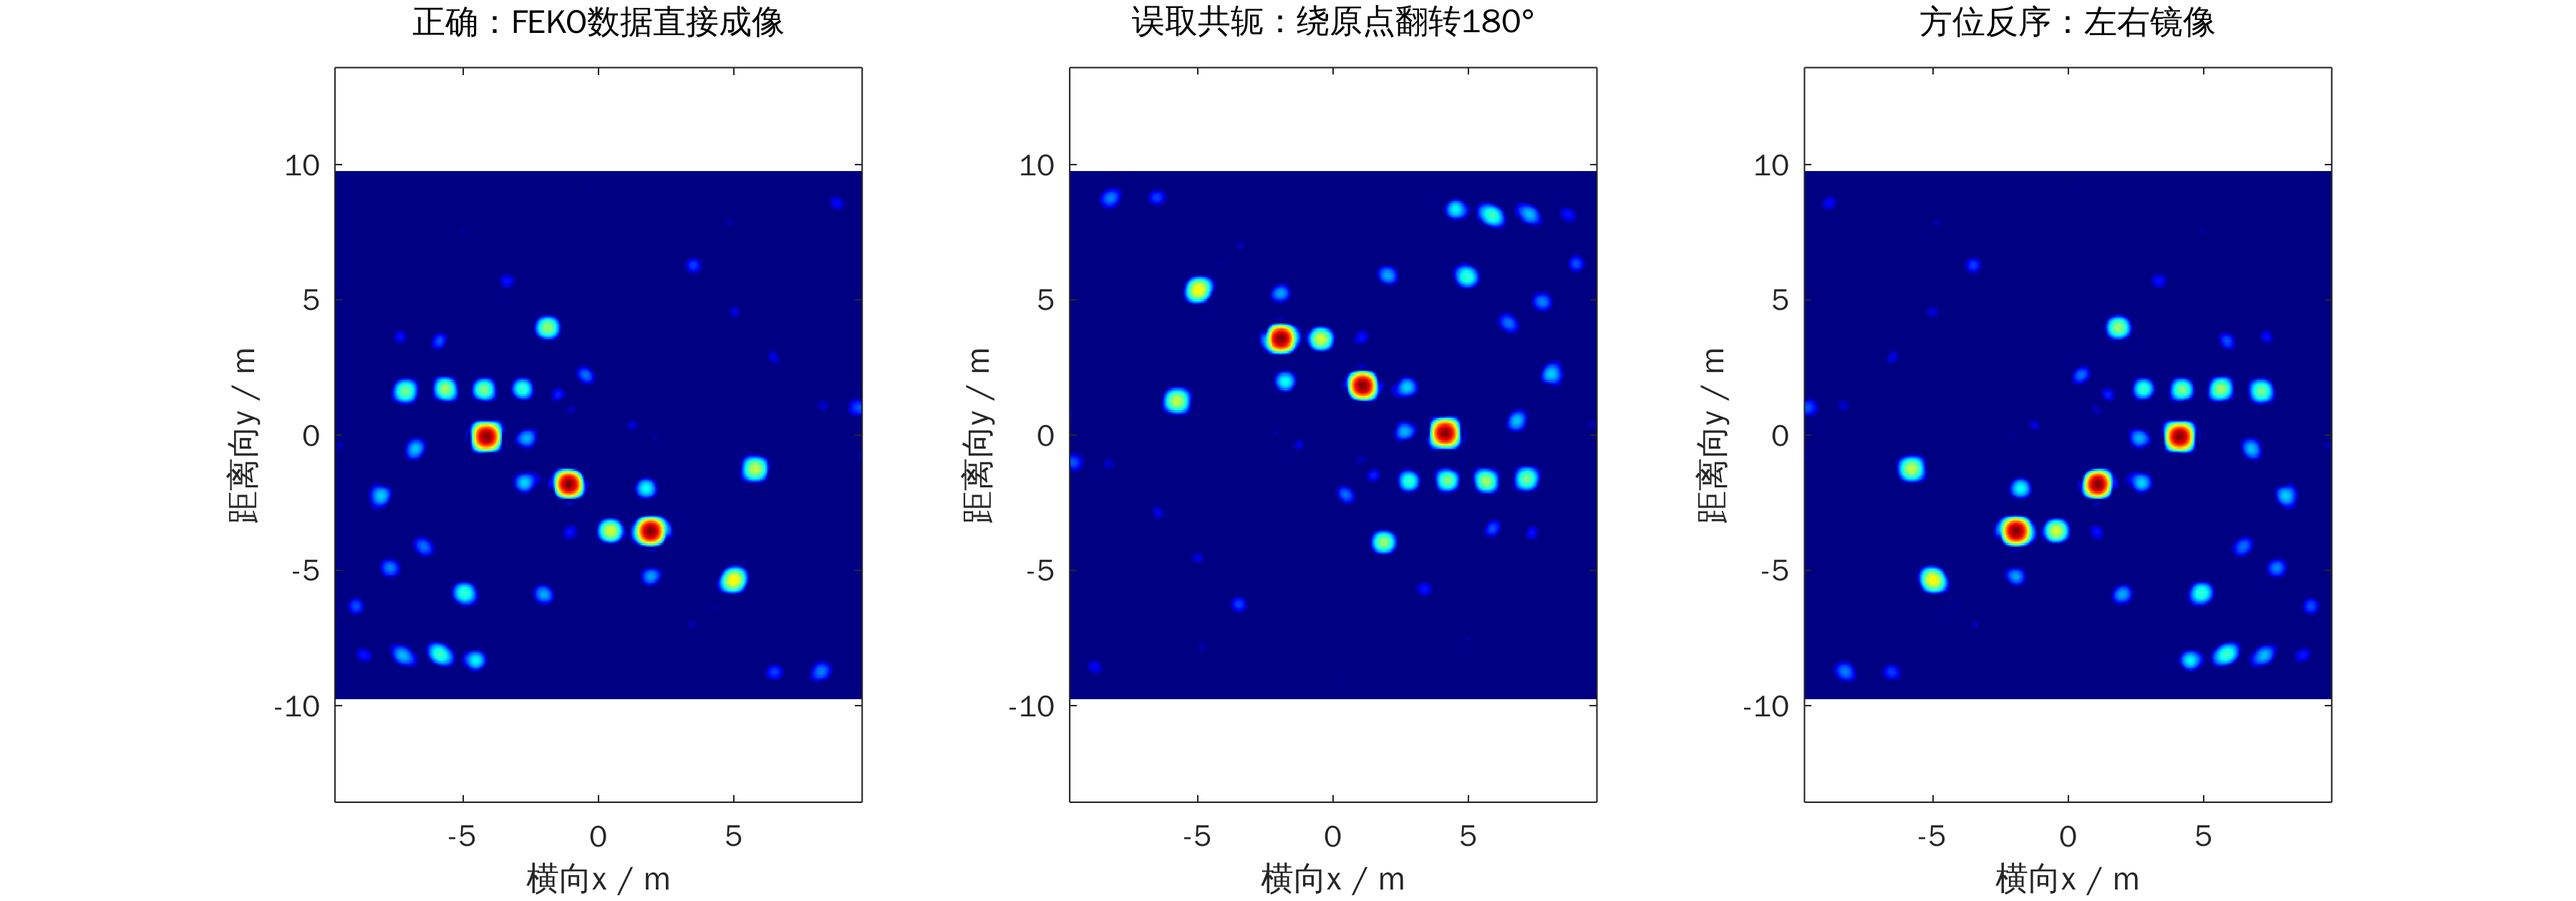
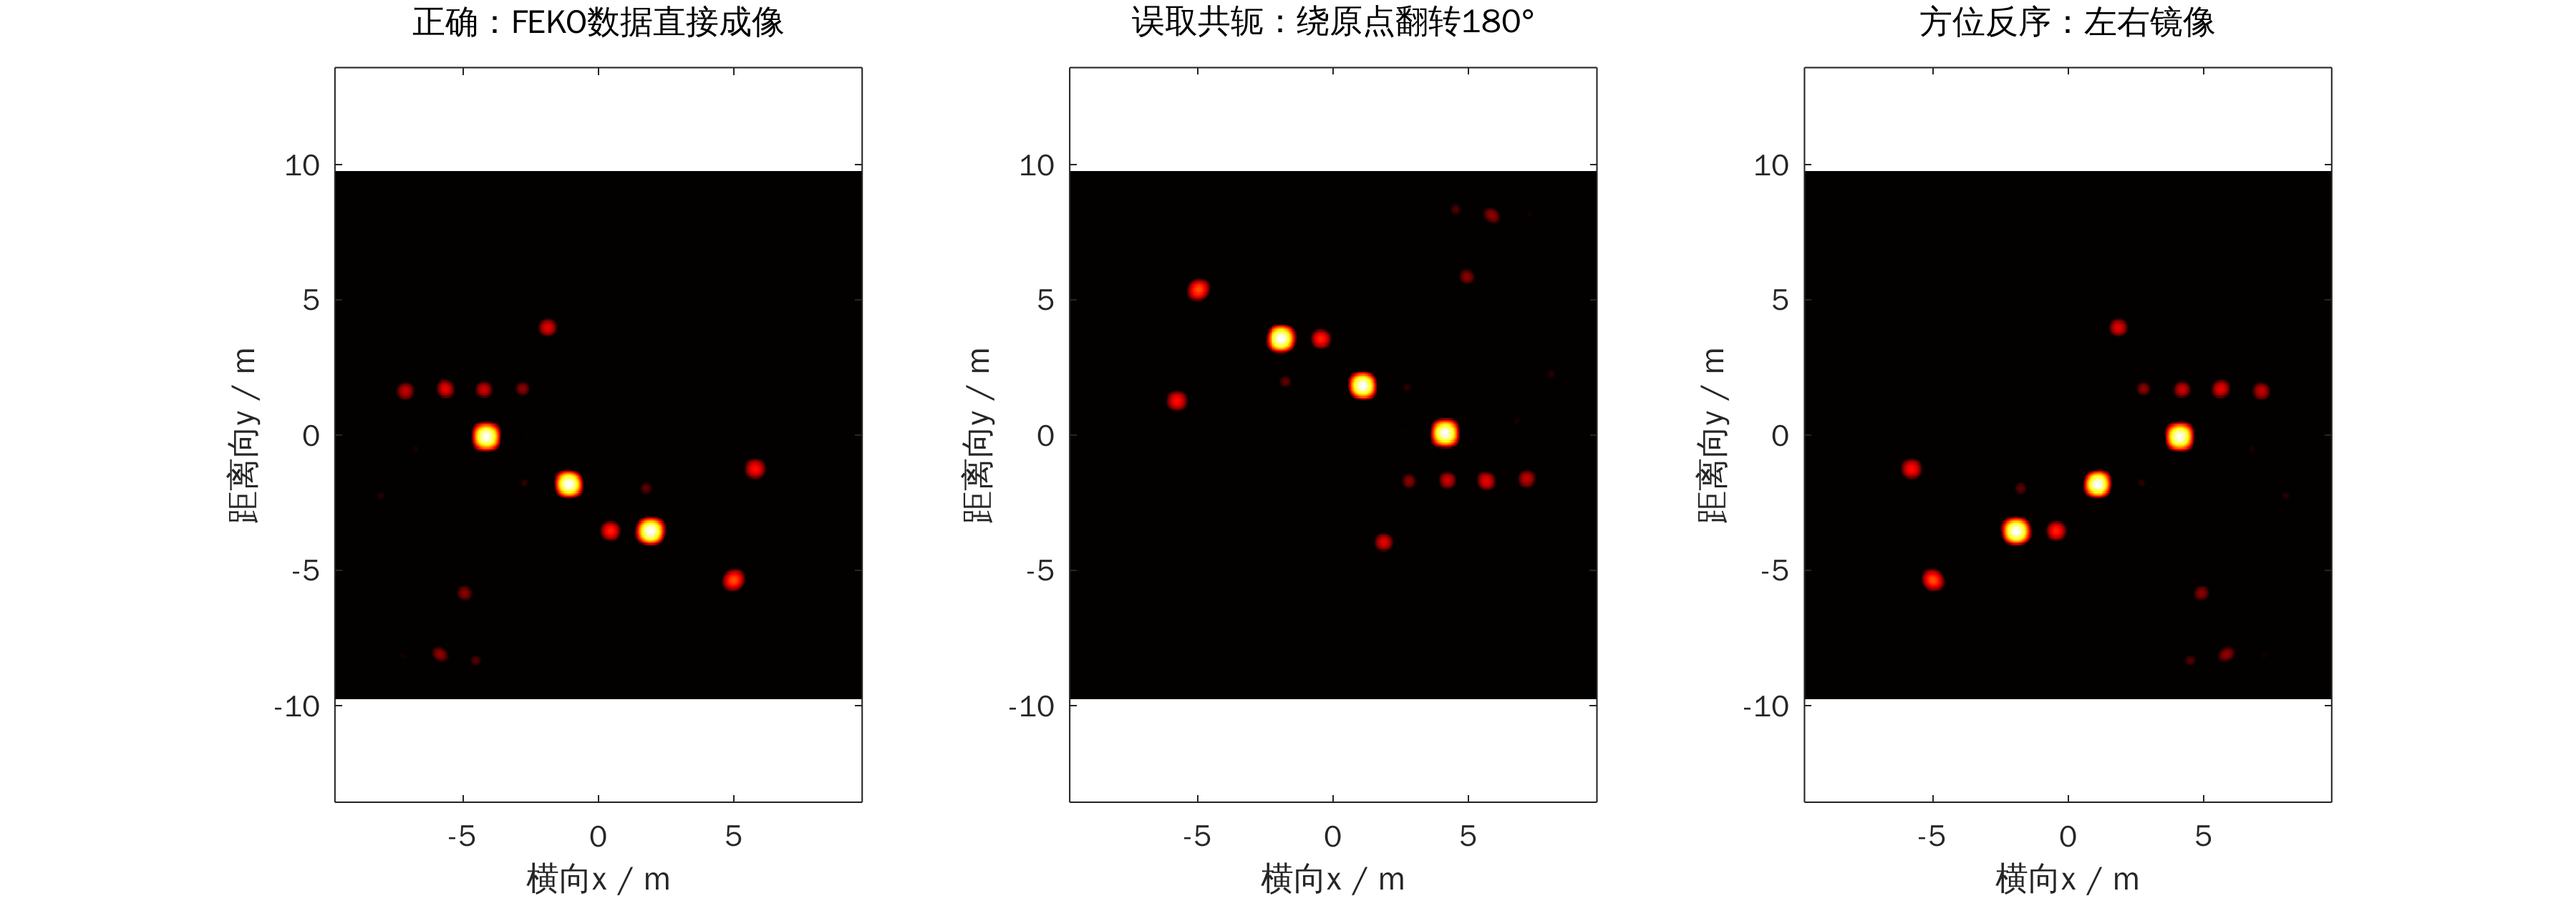
成像显示改进：主图用PFA、hot色图、25 dB动态范围；支持雷达俯仰角theta≠90°（水平面投影，已用假数据验证）
Claude-Session: https://claude.ai/code/session_01725vZYNoW8xbX1mxdUcgoL

diff --git a/isar/ISAR_FEKO.m b/isar/ISAR_FEKO.m
@@ -30,13 +30,19 @@ end
 E_comp = 'Etheta'; % 'Etheta'：VV；'Ephi'：HH
 use_window = true; % true：距离、方位都加Hann窗，降低旁瓣但主瓣变宽
 pad_factor = 4; % 补零倍数：只加密显示网格，不提高分辨率
-dynamic_range_dB = 35; % 图像显示动态范围，不改变成像结果
+dynamic_range_dB = 25; % 图像显示动态范围，不改变成像结果；25 dB可压掉弱的数值噪声点
+cmap = hot(256); % 图像色图：hot（黑底，接近雷达图像的常用显示）；也可改为jet(256)
+outline_color = [0.3,0.85,1]; % 模型轮廓线颜色（青色）
 enable_pfa = true; % 是否做PFA并与RD对比
 if ~exist('figures','dir'); mkdir('figures'); end
 
 %% 读取数据与基本参数
 c = 3e8; % 光速，m/s
-[S_f_phi,f_axis,phi_axis_deg] = read_ffe(ffe_file,E_comp);
+[S_f_phi,f_axis,phi_axis_deg,ffe_info] = read_ffe(ffe_file,E_comp);
+% 雷达俯仰：theta=90°时雷达在xy平面内；theta<90°时斜视成像，
+% 空间频率在xy平面内的分量为K*sin(theta)，坐标除以sin(theta)即投影回水平面（地面投影）。
+theta_inc_deg = ffe_info.theta_deg;
+s_el = sin(theta_inc_deg*pi/180);
 [Nf,Naz] = size(S_f_phi);
 delta_f = mean(diff(f_axis)); % 频率步进，Hz
 f0 = (f_axis(1)+f_axis(end))/2; % 中心频率，Hz
@@ -49,10 +55,10 @@ theta_c = (phi_c_deg-270)*pi/180; % 中心视角相对-y方向的转角，rad
 theta_axis = (phi_axis_deg-phi_c_deg)*pi/180; % 相对转角，rad，对应ISAR_RD.m中的theta
 theta_m = Naz*delta_phi; % 总转角（等效孔径），rad
 
-rho_r = c/(2*Br); % 距离向理论分辨率（矩形窗），m
-rho_a = lambda/(2*theta_m); % 横向理论分辨率（矩形窗，课件公式），m
-R_ua = c/(2*delta_f); % 不模糊距离窗，m
-X_ua = c/f_axis(end)/(2*delta_phi); % 横向不模糊窗（最高频，最保守），m
+rho_r = c/(2*Br)/s_el; % 距离向理论分辨率（矩形窗，水平面投影），m
+rho_a = lambda/(2*theta_m)/s_el; % 横向理论分辨率（矩形窗，课件公式，水平面投影），m
+R_ua = c/(2*delta_f)/s_el; % 不模糊距离窗，m
+X_ua = c/f_axis(end)/(2*delta_phi)/s_el; % 横向不模糊窗（最高频，最保守），m
 
 % 卫星模型轮廓（design_params.m保存）：用于叠加核对
 has_model = exist('design_params.mat','file')==2;
@@ -98,8 +104,8 @@ print(gcf,'-dpng','-r300',['figures/fig02_raw_data_rcs',fig_tag,'.png']);
 % E(f)~exp(-j*4*pi*f*dR/c)，IFFT后峰值在dR处：远离雷达为正，与ISAR_RD.m一致。
 Nfft_r = 2^nextpow2(pad_factor*Nf);
 S1_r_theta = fftshift(ifft(bsxfun(@times,S_f_phi,Wr),Nfft_r,1),1);
-range_axis = (-Nfft_r/2:Nfft_r/2-1).'*c/(2*Nfft_r*delta_f); % 距离轴，m
-dr_image = c/(2*Nfft_r*delta_f); % 补零后的距离显示网格，m；不是分辨率
+range_axis = (-Nfft_r/2:Nfft_r/2-1).'*c/(2*Nfft_r*delta_f)/s_el; % 距离轴（水平面投影），m
+dr_image = c/(2*Nfft_r*delta_f)/s_el; % 补零后的距离显示网格，m；不是分辨率
 
 %% 图2：一维距离像随方位角的变化
 HRRP_dB = 20*log10(abs(S1_r_theta)/max(abs(S1_r_theta(:)))+eps);
@@ -107,7 +113,7 @@ y_lim = 0.6*L*[-1,1];
 figure('Name','一维距离像','Color','w','Position',[100,100,900,420]);
 subplot(1,2,1);
 imagesc(phi_axis_deg,range_axis,HRRP_dB); axis xy;
-ylim(y_lim); caxis([-dynamic_range_dB,0]); colorbar;
+ylim(y_lim); colormap(cmap); caxis([-dynamic_range_dB,0]); colorbar;
 xlabel('方位角\phi / deg'); ylabel('距离向y / m（远离雷达为正）');
 title('距离像随方位角变化 / dB');
 subplot(1,2,2);
@@ -115,7 +121,7 @@ plot(range_axis,HRRP_dB(:,idx0),'LineWidth',1.2); grid on;
 xlim(y_lim); ylim([-dynamic_range_dB,0]);
 xlabel('距离向y / m'); ylabel('归一化幅度 / dB');
 title(sprintf('\\phi=%.2f°的一维距离像',phi_c_deg));
-colormap(jet(256));
+colormap(cmap);
 print(gcf,'-dpng','-r300',['figures/fig03_range_profiles',fig_tag,'.png']);
 
 %% 横向成像（RD）：方位维加窗 + FFT
@@ -130,15 +136,15 @@ S_pad(:,idx_pad) = S_window;
 S_RD = fftshift(fft(ifftshift(S_pad,2),[],2),2);
 clear S_pad S_window;
 f_theta = (-Nfft_a/2:Nfft_a/2-1)/(Nfft_a*delta_phi); % 角频率，周/rad
-cross_range_axis = lambda*f_theta/2; % 横向轴，m
-dx_image = lambda/(2*Nfft_a*delta_phi); % 补零后横向显示网格，m；不是分辨率
+cross_range_axis = lambda*f_theta/2/s_el; % 横向轴（水平面投影），m
+dx_image = lambda/(2*Nfft_a*delta_phi)/s_el; % 补零后横向显示网格，m；不是分辨率
 
 %% PFA：极坐标 (K,theta) -> 直角坐标 (Kx,Ky)
 % 空间频率 K=4*pi*f/c。相位 -K*(R-R0) = K*sin(theta)*x - K*cos(theta)*y，
 % 令 Kx=K*sin(theta)，Ky=K*cos(theta)，则 E=sum A*exp(j*(Kx*x-Ky*y))：
 % 对Kx做FFT得x，对Ky做IFFT得y，正负号与RD完全一致。
 if enable_pfa
-    K_axis = 4*pi*f_axis(:)/c; % 列向量
+    K_axis = 4*pi*f_axis(:)/c*s_el; % 列向量：空间频率在xy平面内的分量
     % 取极坐标扇环内接的矩形：Kx范围由最小K的两端转角决定，Ky上限由最大K决定
     Kx_lo = K_axis(1)*tan(theta_axis(1));
     Kx_hi = K_axis(1)*tan(theta_axis(end));
@@ -180,19 +186,25 @@ if has_truth
     y_true = rot_y(T.NPosition(:,1:2),theta_c);
 end
 
-%% 图3：RD图像 + 模型轮廓
-figure('Name','ISAR RD图像','Color','w','Position',[100,100,620,520]);
-imagesc(x_image,y_image,Image_dB); axis xy; axis equal; axis tight;
+%% 图3：ISAR图像（开启PFA时显示PFA结果，否则显示RD结果）+ 模型轮廓
+if enable_pfa
+    Image_main = Image_pfa_dB; name_main = 'PFA';
+else
+    Image_main = Image_dB; name_main = 'RD';
+end
+figure('Name','ISAR图像','Color','w','Position',[100,100,640,540]);
+imagesc(x_image,y_image,Image_main); axis xy; axis equal; axis tight;
 hold on;
 if has_model
-    plot(rot_x(Model.outline_xy,theta_c),rot_y(Model.outline_xy,theta_c),'w-','LineWidth',0.8);
+    plot(rot_x(Model.outline_xy,theta_c),rot_y(Model.outline_xy,theta_c),'-','Color',outline_color,'LineWidth',0.6);
 end
-if has_truth; plot(x_true,y_true,'wo','MarkerSize',8,'LineWidth',1); end
+if has_truth; plot(x_true,y_true,'o','Color',outline_color,'MarkerSize',8,'LineWidth',1); end
 hold off;
-xlabel('横向x=\lambda_0 f_\theta/2 / m'); ylabel('距离向y / m（远离雷达为正）');
-title(sprintf('RD图像（\\phi_c=%.1f°，\\theta_m=%.1f°）；白线为模型俯视轮廓',phi_c_deg,theta_m*180/pi));
-caxis([-dynamic_range_dB,0]); colorbar; colormap(jet(256));
-print(gcf,'-dpng','-r300',['figures/fig04_RD_image',fig_tag,'.png']);
+xlabel('横向x / m'); ylabel('距离向y / m（远离雷达为正）');
+title(sprintf('%s图像（f_0=%.1f GHz，\\theta=%.0f°，\\phi_c=%.1f°，\\theta_m=%.1f°）',...
+    name_main,f0/1e9,theta_inc_deg,phi_c_deg,theta_m*180/pi));
+colormap(cmap); caxis([-dynamic_range_dB,0]); colorbar;
+print(gcf,'-dpng','-r300',['figures/fig04_ISAR_image',fig_tag,'.png']);
 
 %% 图4：RD与PFA对比（上：全图；下：离旋转中心最远处的局部放大）
 % RD假设小转角、窄带：离中心越远，距离徙动和二次相位越大，RD越散焦；PFA可校正。
@@ -217,7 +229,7 @@ if enable_pfa
         imagesc(x_image,y_image,img_list{mod(k-1,2)+1}); axis xy; axis equal; axis tight;
         hold on;
         if has_model
-            plot(rot_x(Model.outline_xy,theta_c),rot_y(Model.outline_xy,theta_c),'w-','LineWidth',0.8);
+            plot(rot_x(Model.outline_xy,theta_c),rot_y(Model.outline_xy,theta_c),'-','Color',outline_color,'LineWidth',0.6);
         end
         if has_truth; plot(x_true,y_true,'wo','MarkerSize',8); end
         if k<=2
@@ -229,9 +241,9 @@ if enable_pfa
         end
         hold off;
         xlabel('横向x / m'); ylabel('距离向y / m');
-        caxis([-dynamic_range_dB,0]); colorbar;
+        colormap(cmap); caxis([-dynamic_range_dB,0]); colorbar;
     end
-    colormap(jet(256));
+    colormap(cmap);
     print(gcf,'-dpng','-r300',['figures/fig05_RD_vs_PFA',fig_tag,'.png']);
 end
 
@@ -253,7 +265,7 @@ for k = 1:3
     xlabel('横向x / m'); ylabel('距离向y / m'); title(name_case{k});
     caxis([-dynamic_range_dB,0]);
 end
-colormap(jet(256));
+colormap(cmap);
 print(gcf,'-dpng','-r300',['figures/fig06_sign_check',fig_tag,'.png']);
 
 %% 打印参数与核验结果

diff --git a/isar/make_synthetic_ffe.m b/isar/make_synthetic_ffe.m
@@ -40,7 +40,8 @@ k_axis = 2*pi*f_axis(:)/c; % 列向量：各频点波数
 phi_rad = phi_axis_deg*pi/180; % 行向量：各方位角
 E_theta = complex(zeros(Nf,Naz));
 for i = 1:Ntarget
-    u_dot_r = Position_x(i)*cos(phi_rad)+Position_y(i)*sin(phi_rad); % 1×Naz
+    % 雷达方向u=(sin(theta)cos(phi), sin(theta)sin(phi), cos(theta))，散射点在z=0平面内
+    u_dot_r = sin(theta_inc_deg*pi/180)*(Position_x(i)*cos(phi_rad)+Position_y(i)*sin(phi_rad)); % 1×Naz
     E_theta = E_theta+Position_Abs(i)*exp(1j*2*k_axis*u_dot_r); % Nf×Naz
 end
 E_phi = complex(zeros(Nf,Naz)); % 点散射体不产生交叉极化
